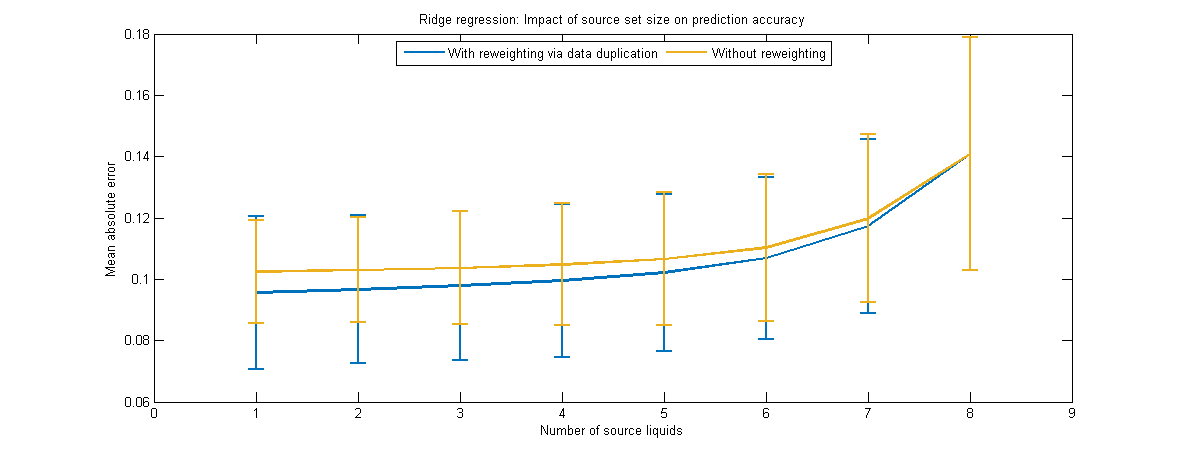
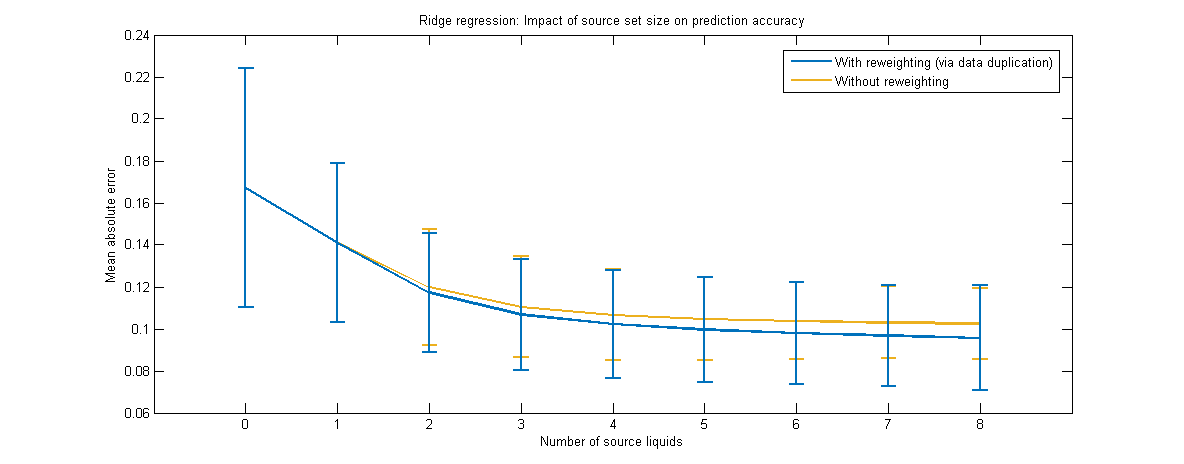
Table, and updated ridge regression image

diff --git a/report.tex b/report.tex
@@ -5,6 +5,7 @@
 \usepackage{graphicx}
 \usepackage{subcaption}
 \usepackage{amsmath}
+\usepackage{tabularx}
 %\documentstyle[nips14submit_09,times,art10]{article} % For LaTeX 2.09
 
 \DeclareMathOperator*{\argmax}{arg\,max}
@@ -157,9 +158,27 @@ R1: For a given liquid, can we build a classifier that can tell its content leve
 R2: Given N types of known liquid data and 2 levels of an unknown liquid data, could we build a model that predicts its content level? If we can build a model, how many types of known liquid we need in order to achieve a decent performance? Put it differently, we want to explore how the prediction model's performance change as the number of known liquid (N) used for training increases. 
 
 \subsection{Exploration on R1}
-The classification problem here is to predict the content level from 11 possible levels (0 to 1 with 10 percent as the interval) given the extracted 21 standardized MFCC and LPC features computed from an impulse response sound clip recorded using our sensor. We train a support vector machine classifier using libSVM~\cite{chang2011libsvm}. For evaluation, we did 10-fold cross validation. The evaluation result is shown in Table X. With the data set we collected, we were able to achieve the similar performance as ~\cite{fan2015soqr}. 
+The classification problem here is to predict the content level from 11 possible levels (0 to 1 with 10 percent as the interval) given the extracted 21 standardized MFCC and LPC features computed from an impulse response sound clip recorded using our sensor. We train a support vector machine classifier using libSVM~\cite{chang2011libsvm}. For evaluation, we did 10-fold cross validation. The evaluation result is shown in Table~\ref{table:svmEval}. With the data set we collected, we were able to achieve the similar performance as ~\cite{fan2015soqr}. 
 
-
+\begin{table}[t]
+\caption{Evaluation of classification performance of an SVM classifier utilizing RBF kernel.}
+\label{table:svmEval}
+\begin{center}
+\begin{tabular}{ l | c | c | c }
+\textbf{LIQUID TYPE} & \textbf{OVERALL PRECISION} & \textbf{OVERALL RECALL} & \textbf{F-MEASURE} \\ \hline
+~ & ~ & ~ & ~\\
+Apple juice & 0.992 & 0.992 & 0.992 \\
+Canola oil & 0.996 & 0.996 & 0.996 \\
+Milk & 1.000 & 1.000 & 1.000 \\
+Olive oil & 0.998 & 0.998 & 0.998 \\
+Orange juice & 0.997 & 0.997 & 0.997 \\
+Soy sauce & 0.999 & 0.999 & 0.999 \\
+Syrup & 1.000 & 1.000 & 1.000 \\
+Tonic water & 0.996 & 0.996 & 0.996 \\
+Water & 0.999 & 0.999 & 0.999 \\
+\end{tabular}
+\end{center}
+\end{table}
 \subsection{Exploration on R2}
 
 \subsubsection{Ridge Regression}
@@ -315,30 +334,30 @@ todo: conclusion goes here.
 %\end{center}
 %\caption{Sample figure caption.}
 %\end{figure}
+%
+%\subsection{Tables}
+%
+%All tables must be centered, neat, clean and legible. Do not use hand-drawn
+%tables. The table number and title always appear before the table. See
+%Table~\ref{sample-table}.
+%
+%Place one line space before the table title, one line space after the table
+%title, and one line space after the table. The table title must be lower case
+%(except for first word and proper nouns); tables are numbered consecutively.
 
-\subsection{Tables}
-
-All tables must be centered, neat, clean and legible. Do not use hand-drawn
-tables. The table number and title always appear before the table. See
-Table~\ref{sample-table}.
-
-Place one line space before the table title, one line space after the table
-title, and one line space after the table. The table title must be lower case
-(except for first word and proper nouns); tables are numbered consecutively.
-
-\begin{table}[t]
-\caption{Sample table title}
-\label{sample-table}
-\begin{center}
-\begin{tabular}{ll}
-\multicolumn{1}{c}{\bf PART}  &\multicolumn{1}{c}{\bf DESCRIPTION}
-\\ \hline \\
-Dendrite         &Input terminal \\
-Axon             &Output terminal \\
-Soma             &Cell body (contains cell nucleus) \\
-\end{tabular}
-\end{center}
-\end{table}
+%\begin{table}[t]
+%\caption{Sample table title}
+%\label{sample-table}
+%\begin{center}
+%\begin{tabular}{l|l}
+%\multicolumn{1}{c}{\bf PART}  &\multicolumn{1}{c}{\bf DESCRIPTION}
+%\\ \hline \\
+%Dendrite         &Input terminal \\
+%Axon             &Output terminal \\
+%Soma             &Cell body (contains cell nucleus) \\
+%\end{tabular}
+%\end{center}
+%\end{table}
 %
 %\section{Final instructions}
 %Do not change any aspects of the formatting parameters in the style files.
